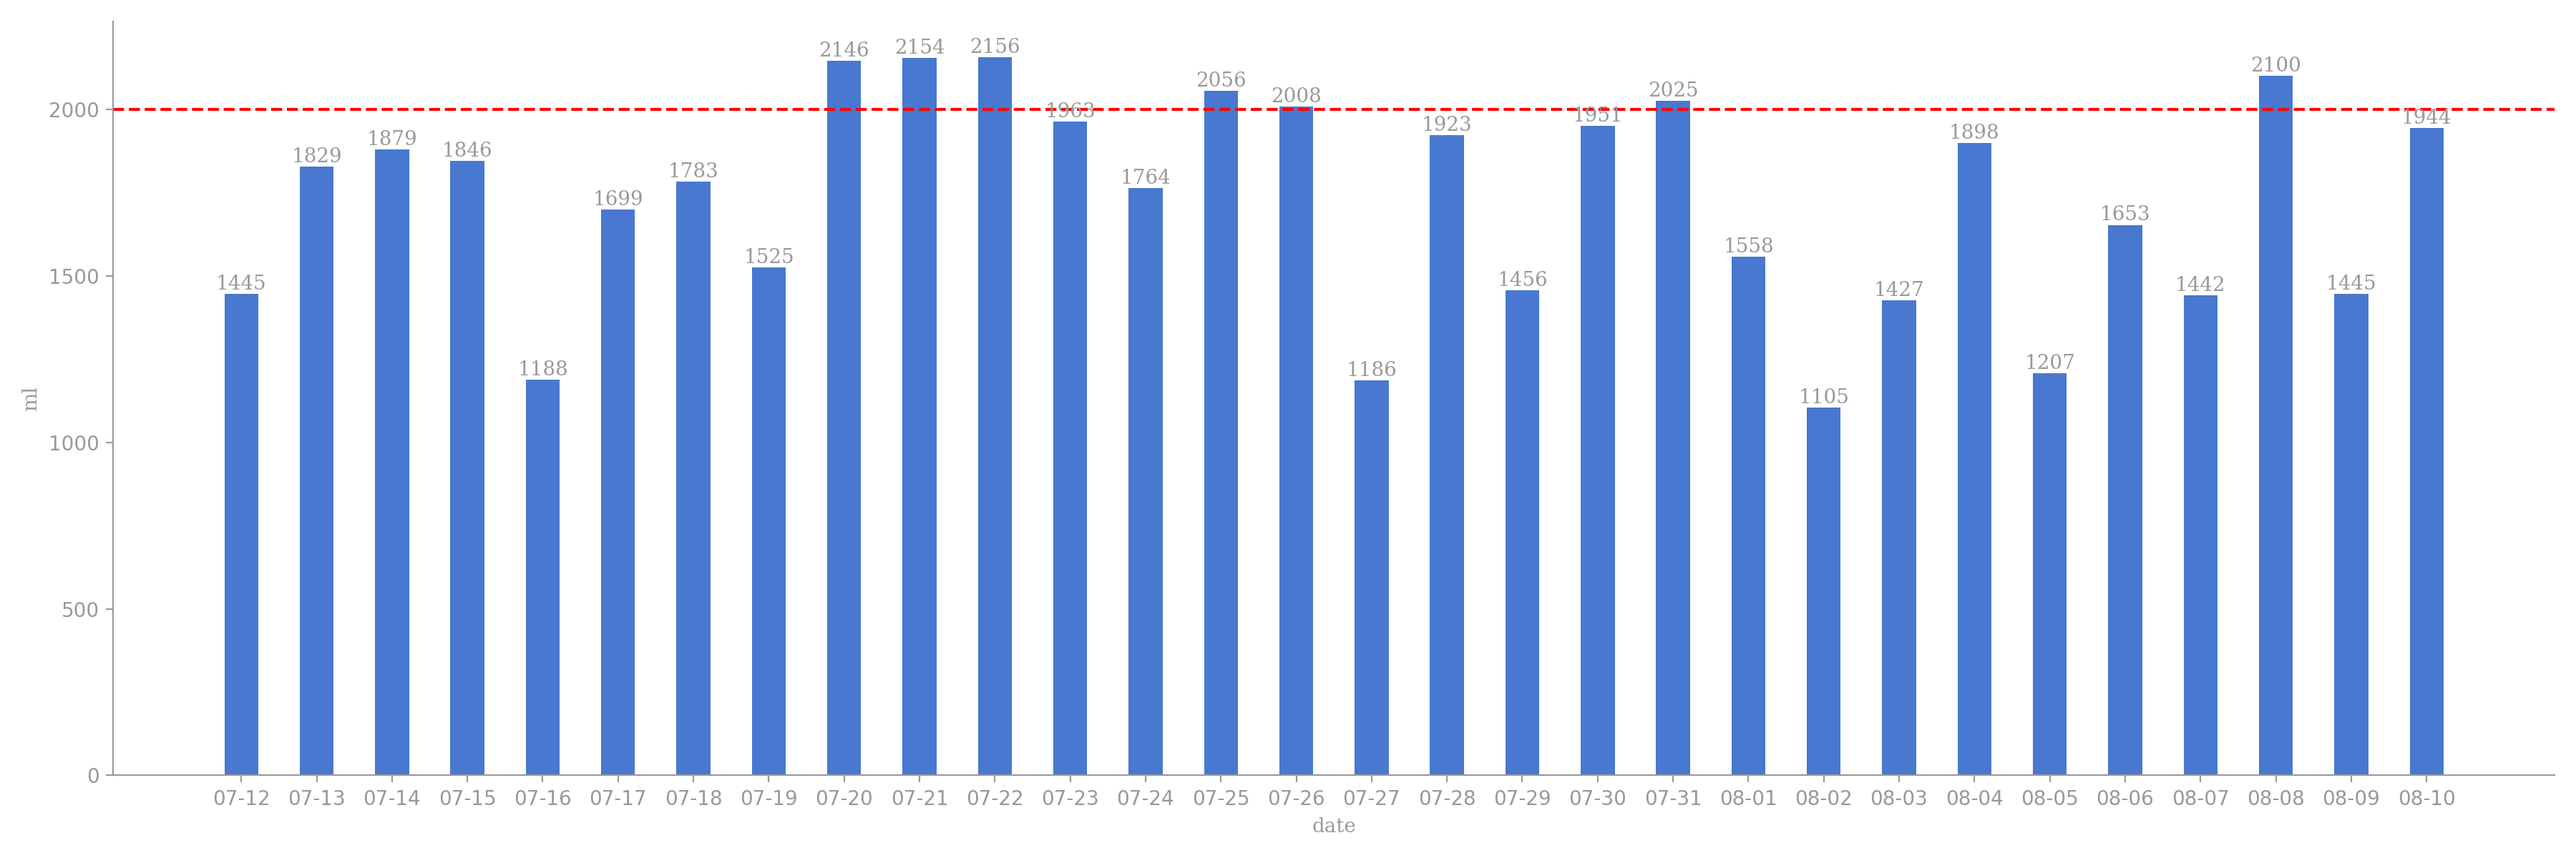
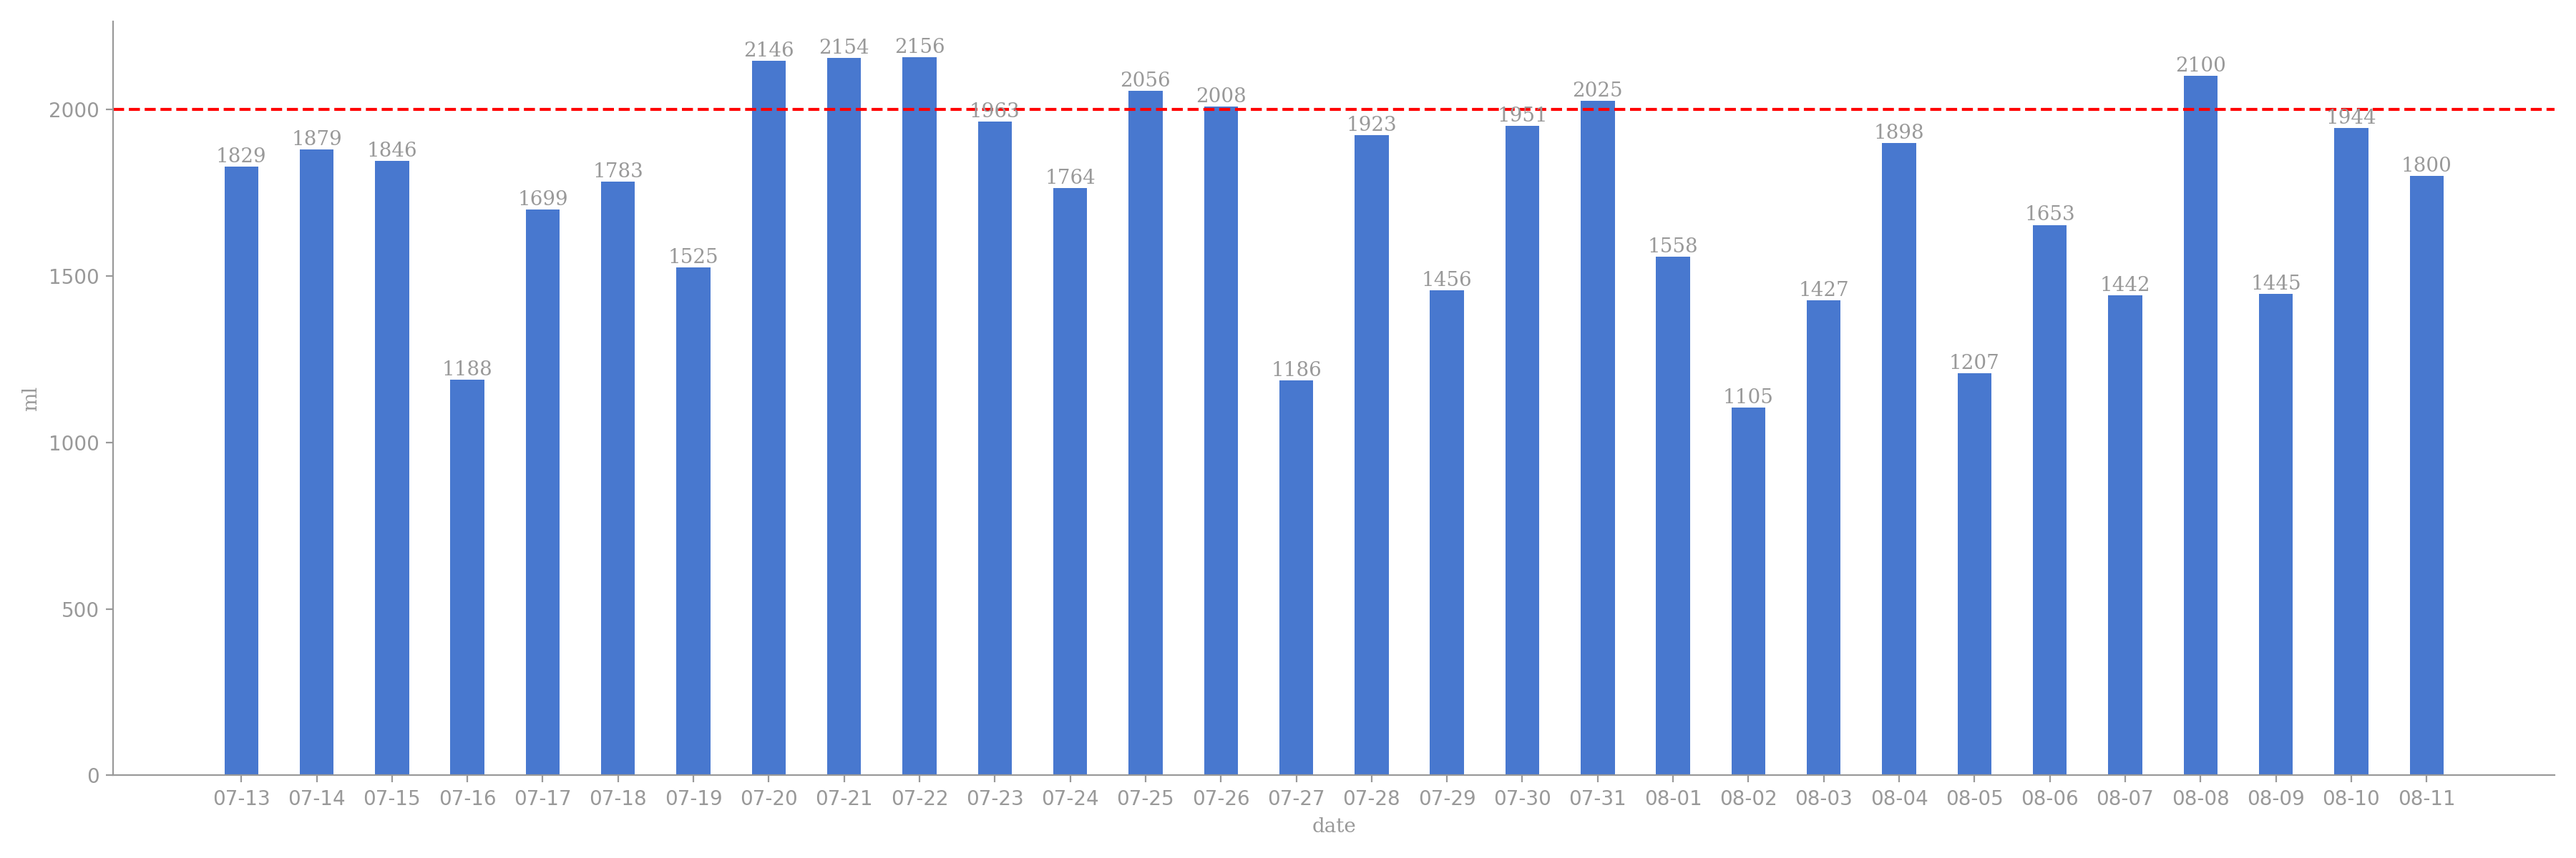
generated readme

diff --git a/README.md b/README.md
@@ -1,17 +1,3 @@
-# 今日饮水数据
-
-<div align=center>
-<img src="today.png" style="zoom: 100%;" />
-
-| 今日总饮水量 | 每小时平均饮水量 |
-| :----: | :----: |
-| 1800 | 163 |
-</div>
-
-| 日期 | 00:39:47 | 02:36:46 | 03:40:53 | 05:48:58 | 07:32:54 | 08:25:42 | 16:26:58 | 16:28:59 | 17:26:18 | 18:26:02 | 21:22:30 | 22:23:51 |
-| :----: | :----: | :----: | :----: | :----: | :----: | :----: | :----: | :----: | :----: | :----: | :----: | :----: |
-| 2024-08-11 | 300 | 98 | 148 | 200 | 87 | 94 | 84 | 139 | 61 | 300 | 89 | 200 |
-
 # 近30日饮水数据
 
 <div align=center>
@@ -19,8 +5,12 @@
 
 | 总饮水量 | 日均饮水量 |
 | :----: | :----: |
-| 51761 | 1725 |
+| 52116 | 1737 |
 </div>
+
+| 日期 | all | 00:39:47 | 02:36:46 | 03:40:53 | 05:48:58 | 07:32:54 | 08:25:42 | 16:26:58 | 16:28:59 | 17:26:18 | 18:26:02 | 21:22:30 | 22:23:51 |
+| :----: | :----: | :----: | :----: | :----: | :----: | :----: | :----: | :----: | :----: | :----: | :----: | :----: | :----: |
+| 2024-08-11 | 1800 | 300 | 98 | 148 | 200 | 87 | 94 | 84 | 139 | 61 | 300 | 89 | 200 |
 
 | 日期 | all | 00:29:09 | 01:30:11 | 03:29:27 | 03:43:09 | 05:46:33 | 07:17:40 | 07:42:09 | 07:52:04 | 09:34:59 | 10:07:40 | 16:45:22 | 17:27:07 | 18:23:44 | 18:59:34 | 19:18:08 | 20:58:32 |
 | :----: | :----: | :----: | :----: | :----: | :----: | :----: | :----: | :----: | :----: | :----: | :----: | :----: | :----: | :----: | :----: | :----: | :----: |
@@ -141,8 +131,4 @@
 | 日期 | all | 00:32:30 | 01:49:56 | 03:42:30 | 04:41:23 | 05:21:09 | 06:08:47 | 07:49:21 | 17:18:57 | 18:11:04 | 18:15:51 | 20:35:06 | 21:05:58 | 23:09:51 |
 | :----: | :----: | :----: | :----: | :----: | :----: | :----: | :----: | :----: | :----: | :----: | :----: | :----: | :----: | :----: |
 | 2024-07-12 | 1445 | 85 | 89 | 89 | 110 | 95 | 66 | 47 | 105 | 300 | 125 | 85 | 114 | 135 |
-
-| 日期 | all | 00:10:47 | 01:31:07 | 03:01:22 | 03:41:51 | 04:31:45 | 05:30:23 | 06:39:22 | 08:52:46 | 16:32:26 | 18:15:29 | 18:39:14 | 19:11:08 | 20:34:32 | 22:22:52 |
-| :----: | :----: | :----: | :----: | :----: | :----: | :----: | :----: | :----: | :----: | :----: | :----: | :----: | :----: | :----: | :----: |
-| 2024-07-11 | 1680 | 72 | 103 | 68 | 101 | 82 | 81 | 112 | 300 | 89 | 157 | 121 | 89 | 105 | 200 |
 
